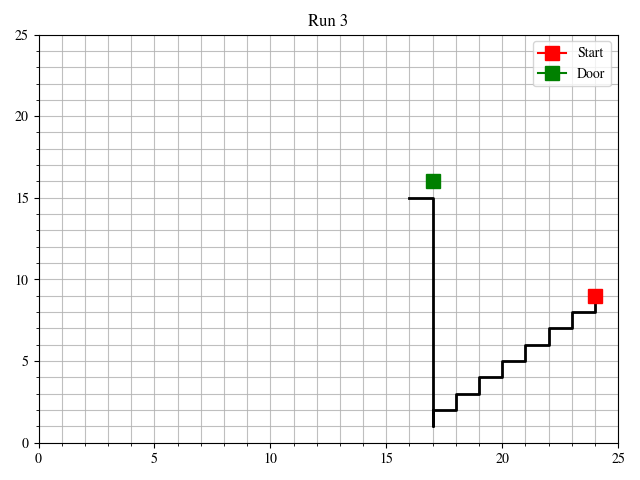
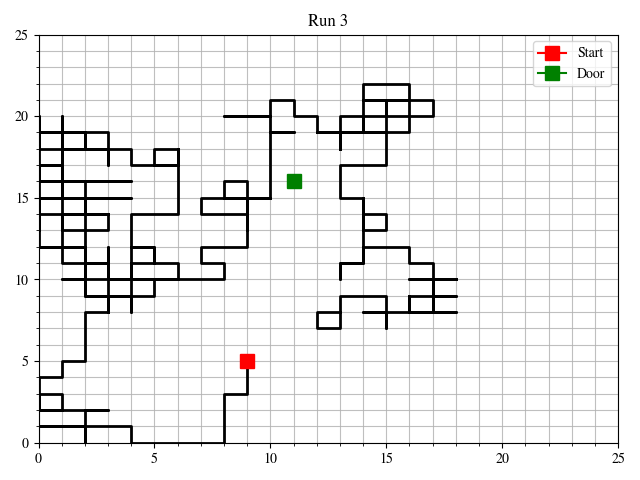
visited squares

diff --git a/HW4/Problem 2/HW4_2.py b/HW4/Problem 2/HW4_2.py
@@ -1,162 +1,253 @@
 import numpy as np
 import matplotlib.pyplot as plt
 import plotting
+import random
 
 # Plots LaTeX-Style
 plt.rcParams['mathtext.fontset'] = 'stix'
 plt.rcParams['font.family'] = 'STIXGeneral'
 
+### Door Hourglass ###
+
+def init_door(door, gg):
+    x = door[0]
+    y = door[1]
+    
+    likelihood = 0.01 * np.ones((gg,gg))
+    likelihood[x, y] = 1.0
+
+    # Initialize Hourglass shape
+    y_list = [y-1, y+1]
+    for i in y_list:
+        for j in range(-1, 2):
+            likelihood[x+j, i] = 1.0/2.0
+    y_list = [y-2, y+2]
+    for i in y_list:
+        for j in range(-2, 3):
+            likelihood[x+j, i] = 1.0/3.0
+    y_list = [y-3, y+3]
+    for i in y_list:
+        for j in range(-3, 4):
+            likelihood[x+j, i] = 1.0/4.0
+    
+    return likelihood
+
 ### Belief ###
 
-def update_post(post, meas, pmeas1, loc, gg):
+def update_likelihood(meas, x, y, gg):
+    likelihood = 0.01 * np.ones((gg,gg))
+
     if meas == 1:
-        pmeas = pmeas1
-    else:
-        pmeas = 1-pmeas1   
+        likelihood[x, y] = 1.0
+        # Hourglass shape
+        y_list = [y-1, y+1]
+        for i in y_list:
+            for j in range(-1, 2):
+                if gg > x+j >= 0 and 0 <= i < gg and likelihood[x+j, i] > 0.001:
+                    likelihood[x+j, i] = 1.0/2.0
+        y_list = [y-2, y+2]
+        for i in y_list:
+            for j in range(-2, 3):
+                if gg > x+j >= 0 and 0 <= i < gg and likelihood[x+j, i] > 0.001:
+                    likelihood[x+j, i] = 1.0/3.0
+        y_list = [y-3, y+3]
+        for i in y_list:
+            for j in range(-3, 4):
+                if gg > x+j >= 0 and 0 <= i < gg and likelihood[x+j, i] > 0.001:
+                    likelihood[x+j, i] = 1.0/4.0
     
-    # Define possible movements depending whether on border or not
-    if loc[-1,0] == 0 and 1 <= loc[-1,1] <= gg-2:
-        poss_u = np.array([[1, 0], [0, 1], [0, -1], [0, 0]])
-    elif loc[-1,0] == gg-1 and 1 <= loc[-1,1] <= gg-2:
-        poss_u = np.array([[-1, 0], [0, 1], [0, -1], [0, 0]])
-    elif 1 <= loc[-1,0] <= gg-2 and loc[-1,1] == 0:
-        poss_u = np.array([[1, 0], [-1, 0], [0, 1], [0, 0]])
-    elif 1 <= loc[-1,0] <= gg-2 and loc[-1,1] == gg-1:
-        poss_u = np.array([[1, 0], [-1, 0], [0, -1], [0, 0]])
+    else: # meas == 0
+        likelihood[x, y] = 0
 
-    elif loc[-1,0] == 0 and loc[-1,1] == 0:
-        poss_u = np.array([[1, 0], [0, 1], [0, 0]])
-    elif loc[-1,0] == 0 and loc[-1,1] == gg-1:
-        poss_u = np.array([[1, 0], [0, -1], [0, 0]])
-    elif loc[-1,0] == gg-1 and loc[-1,1] == 0:
-        poss_u = np.array([[-1, 0], [0, 1], [0, 0]])
-    elif loc[-1,0] == gg-1 and loc[-1,1] == gg-1:
-        poss_u = np.array([[-1, 0], [0, -1], [0, 0]])
+        y_list = [y-1, y+1]
+        for i in y_list:
+            for j in range(-1, 2):
+                if gg > x+j >= 0 and 0 <= i < gg and likelihood[x+j, i] > 0.001:
+                    likelihood[x+j, i] = 1.0/2.0
+        y_list = [y-2, y+2]
+        for i in y_list:
+            for j in range(-2, 3):
+                if gg > x+j >= 0 and 0 <= i < gg and likelihood[x+j, i] > 0.001:
+                    likelihood[x+j, i] = 2.0/3.0
+        y_list = [y-3, y+3]
+        for i in y_list:
+            for j in range(-3, 4):
+                if gg > x+j >= 0 and 0 <= i < gg and likelihood[x+j, i] > 0.001:
+                    likelihood[x+j, i] = 3.0/4.0
 
+    return likelihood
+
+def update_post(post, meas, pmeas1, visited, likelihood, r0):
+    gg = len(visited[0])
+    x = r0[0]
+    y = r0[1]
+
+    px1 = 1 / (gg ** 2)
+    if meas == 1:
+        pmeas = px1
     else:
-        poss_u = np.array([[1, 0], [-1, 0], [0, 1], [0, -1], [0, 0]])
+        pmeas = 1 - px1
+    # if meas == 1:
+    #     pmeas = pmeas1
+    # else:
+    #     pmeas = 1-pmeas1 
 
-    for u in poss_u:
-        pr0 = get_pr0(gg, loc, u[0], u[1])
-        L = get_L(meas, u[0], u[1])
-        post[int(loc[-1,0]+u[0]), int(loc[-1,1]+u[1])] = L * pr0 / pmeas
+    for i in range(gg): #TODO
+        for j in range(gg):
+            pr0 = visited[i,j]
+            Lr0 = get_Lr0(likelihood, i, j)
+            post[i,j] = Lr0 * pr0 / pmeas
 
     post = post / np.sum(post) # normalize
-    return post, poss_u
+    return post
 
-def get_L(meas, i, j):
-    if meas == 1:
-        if i == 1 or i == -1:
-            L = 0.5
-        else: # j == 1 or j == -1
-            L = 0.01 
-    else: # meas == 0 -- TODO: check if likelihoods of meas 1/0 are really the same in vicinity of loc
-        if i == 1 or i == -1:
-            L = 0.5
-        else:
-            L = 0.01
-    return L
+def get_Lr0(likelihood, y, x):
+    y_list, x_list = [y + 1, y - 1], [x + 1, x - 1]
+    p_list = []
+    gg = len(likelihood[0])
 
-def get_pr0(gg, loc, i, j):
-    #num_visit = len(np.where(loc == [loc[-1,0]+i, loc[-1,1]+j])[0]) #error in commented out part
-    for k in range(len(loc)):
-        if loc[k,0] == loc[-1,0]+i and loc[k,1] == loc[-1,1]+j:
-            return 0
-    return 1/(gg**2 - len(np.unique(loc, axis=0)))
+    for i in y_list:
+        if 0 <= i < gg:
+            p_list.append(likelihood[i][x])
+    for j in x_list:
+        if 0 <= j < gg:
+            p_list.append(likelihood[y][j])
+
+    Lr0 = sum(p_list) / len(p_list)
+    return Lr0
+
+def update_visited(visited, x, y, sq_unvisited):
+    gg = len(visited[0])
+    visited[x, y] = 0
+    for i in range(gg):
+        for j in range(gg):
+            if visited[i, j] > 0.0001:
+                visited[i, j] = 1 / sq_unvisited
+    return visited
 
 ### u ###
 
-def get_u(post, prior, loc, S, possib_u, gg, meas_prob):
-    min_u = np.array([0, 0])
-    max_EdS = 0
-    for u in possib_u:
-        rj = loc[-1]+u
-        sim_loc = np.vstack((loc, rj))
-        pmeas1 = meas_prob[int(rj[0]),int(rj[1])]
-        EdS = get_EdS(post, sim_loc, S, gg, pmeas1)
-        #print("Entropy reduction in " + str(u) + " is equal to: " + str(EdS))
-        if EdS > max_EdS:
-            max_EdS = EdS
-            min_u = u
-    #print("Chose " + str(min_u))
-    return min_u
+def get_options(x, y, gg):
+    # Borders
+    if x == 0 and 1 <= y <= gg-2:
+        u_options = np.array([[1, 0], [0, 1], [0, -1], [0, 0]])
+    elif x == gg-1 and 1 <= y <= gg-2:
+        u_options = np.array([[-1, 0], [0, 1], [0, -1], [0, 0]])
+    elif 1 <= x <= gg-2 and y == 0:
+        u_options = np.array([[1, 0], [-1, 0], [0, 1], [0, 0]])
+    elif 1 <= x <= gg-2 and y == gg-1:
+        u_options = np.array([[1, 0], [-1, 0], [0, -1], [0, 0]])
+
+    # Corners
+    elif x == 0 and y == 0:
+        u_options = np.array([[1, 0], [0, 1], [0, 0]])
+    elif x == 0 and y == gg-1:
+        u_options = np.array([[1, 0], [0, -1], [0, 0]])
+    elif x == gg-1 and y == 0:
+        u_options = np.array([[-1, 0], [0, 1], [0, 0]])
+    elif x == gg-1 and y == gg-1:
+        u_options = np.array([[-1, 0], [0, -1], [0, 0]])
+
+    else:
+        u_options = np.array([[1, 0], [-1, 0], [0, 1], [0, -1], [0, 0]])
+
+    return u_options
+
+def get_u(post, path, S, u_options, gg, meas_likelihood, visited, sq_unvisited):
+    best_u = np.array([0, 0])
+    max_exp_red_S = 0
+    
+    for u in u_options: # cycle through all possible u
+        rj = path[-1]+u
+
+        exp_red_S = get_exp_red_S(post, rj, S, gg, meas_likelihood, visited, sq_unvisited)
+
+        if exp_red_S > max_exp_red_S: # keep u with highest expected entropy recduction
+            max_exp_red_S = exp_red_S
+            best_u = u
+    return best_u
 
 ### Entropy ###
 
-def get_EdS(post, sim_loc, S, gg, pmeas1):
-    # Get entropy for hypothetical measurement 1
-    post1 = update_post(post, 1, pmeas1, sim_loc, gg)[0]
-    S1 = get_S(gg, post1)
-    # Get entropy for hypothetical measurement 0
-    post0 = update_post(post, 0, pmeas1, sim_loc, gg)[0]
-    S0 = get_S(gg, post0)
+def get_exp_red_S(post, rj, S, gg, meas_likelihood, visited, sq_unvisited): # TODO
+    pmeas1 = meas_likelihood[int(rj[0]), int(rj[1])]
+    likelihood0, likelihood1 = update_likelihood(0, rj[0], rj[1], gg), update_likelihood(1, rj[0], rj[1], gg)
+    visited = update_visited(visited, rj[0], rj[1], sq_unvisited - 1)
 
-    return S -  pmeas1 * S1 - (1-pmeas1) * S0 # return the entropy reduction (--> the bigger the better)
+    post1, post0 = update_post(post, 1, pmeas1, visited, likelihood1, rj), update_post(post, 0, pmeas1, visited, likelihood0, rj)
 
-def get_S(gg, post):
+    S0, S1 = get_S(post0), get_S(post1)
+
+    return pmeas1 * (S1 - S) + (1-pmeas1) * (S0 - S)
+
+def get_S(prob):
     S = 0
-    for i in range(gg):
-        for j in range(gg):
-            if post[i,j] != 0:
-                S -= post[i,j] * np.log(post[i,j])
+    for x in prob:
+        for p in x:
+            if p < 1e-8:
+                p = 1e-8
+            S -= p * np.log(p)
     return S
-
 
 ### Main ###
 
 def main():
     ### Initialize
     gg = 25
-    for s in range(4):
-        prior = np.zeros([gg,gg])
-        for i in range(gg):
-            for j in range(gg):
-                prior[i,j] = 1/(gg**2) # uniform distribution
+    eps = 0.1
 
-        S = np.log2(gg**2) # entropy of uniform distribution
-
-        post = prior
-
+    for sim in range(4):
         # Start Locations
         door = np.random.randint(3,gg-3,2)
         start = np.random.randint(0,gg,2)
-        loc = np.array([start])
-        #print(loc)
+        # print(start)
 
-        # Measurement Ground Truth
-        meas_prob = np.zeros([gg,gg])
-        for i in range(gg):
-            for j in range(gg):
-                if (i == door[0] and j == door[1]):
-                    meas_prob[i,j] = 1.0
-                elif (i == door[0]-1 or i == door[0]+1 and door[1]-1 <= j <= door[1]+1):
-                    meas_prob[i,j] = 1.0/2.0
-                elif (i == door[0]-2 or i == door[0]+2 and door[1]-2 <= j <= door[1]+2):
-                    meas_prob[i,j] = 1.0/3.0
-                elif (i == door[0]-3 or i == door[0]+3 and door[1]-3 <= j <= door[1]+3):
-                    meas_prob[i,j] = 1.0/4.0
-                else:
-                    meas_prob[i,j] = 0.01
+        path = np.array([start])
+        
+        likelihood = init_door(door, gg)
+        sq_unvisited = gg ** 2
+        visited = (1 / (gg**2)) * np.ones((gg,gg))
+
+        post = (1 / (gg**2)) * np.ones((gg,gg))
+        S = get_S(post)
 
         ### Search
-        print(S)
         i = 0
-        while S > 1 and i <1000:
-            meas = (np.random.random() < meas_prob[int(loc[-1, 0]),int(loc[-1, 1])])
-            post, poss_u = update_post(post, meas, meas_prob[int(loc[-1, 0]),int(loc[-1, 1])], loc, gg)
-            S = get_S(gg, post)
-            print(S)
-            u = get_u(post, prior, loc, S, poss_u, gg, meas_prob) ### # of size (2,1): choose direction with highest expected entropy reduction
-            loc = np.vstack((loc, loc[-1] + u))
-            prior = post
-            #print(loc[-1])
+        while S > eps and sq_unvisited > 0 and i < 500:
+            if path[-1,0] != door[0] or path[-1,1] != door[1]:
+                # Take binary measurement
+                meas = int(np.random.random() < likelihood[int(path[-1, 0]),int(path[-1, 1])])
+                
+                # Update belief
+                meas_likelihood = update_likelihood(meas, path[-1, 0], path[-1, 1], gg)
+                sq_unvisited = gg ** 2 - len(np.unique(path, axis=0))
+                visited = update_visited(visited, path[-1, 0], path[-1, 1], sq_unvisited)
+                # print(visited)
+
+                post = update_post(post, meas, meas_likelihood[int(path[-1, 0]),int(path[-1, 1])], visited, meas_likelihood, path[-1]) # TODO
+                
+                u_options = get_options(path[-1,0], path[-1,1], gg)
+
+                # Compute Entropy
+                S = get_S(post)
+                print(S)
+
+                # Take next step depending on expected entropy reduction
+                u = get_u(post, path, S, u_options, gg, meas_likelihood, visited, sq_unvisited) # TODO
+                # u = random.choice(u_options)
+                path = np.vstack((path, path[-1] + u))
+                plt.scatter(path[-1,0], path[-1,1])
+                plt.draw()
+                plt.pause(0.01)
+                plt.imshow(post.T)
+
+                #print(path[-1])
+            else:
+                break
             i += 1
 
-        plotting.plot_trajectory(gg, door, loc, s)
+        plotting.plot_trajectory(gg, door, path, sim)
     
-
 
 if __name__ == "__main__":
     main()
-
-# sometimes Entropy still becomes NaN ?
